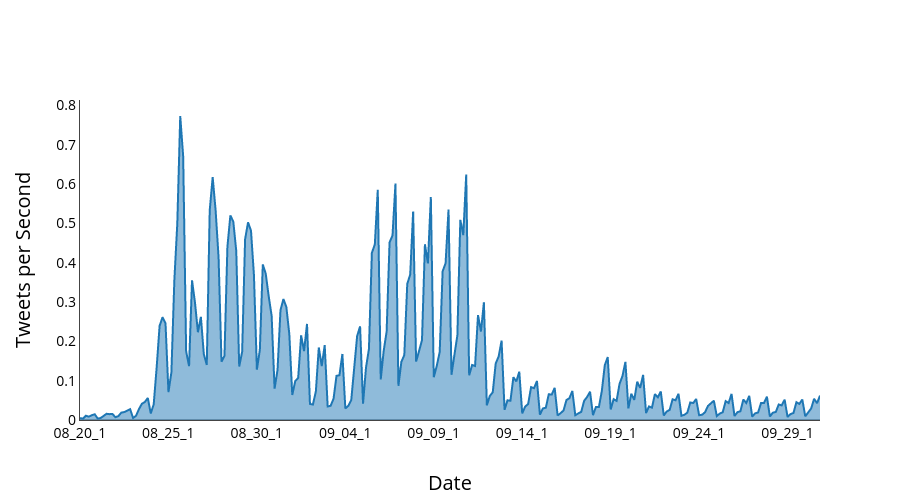
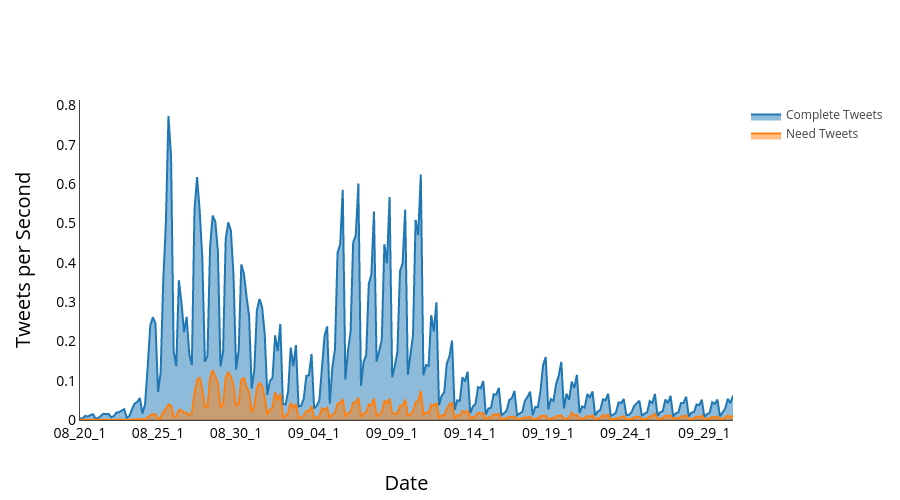
Added another dataset

Changed region(s): [[0.0933, 0.24, 0.9333, 0.9], [0.84, 0.21, 0.9956, 0.3], [0.4356, 0.96, 0.5289, 0.99]]

diff --git a/tweet-rate-graph/tweet-rate.py b/tweet-rate-graph/tweet-rate.py
@@ -11,33 +11,51 @@ import plotly.graph_objs as go
 
 py.sign_in('JStuve', 'mVRUE6CCF94yvNnRxeuu') # Replace the username, and API key with your credentials.
 
-if(len(sys.argv) != 2):
-    print('Please enter file name:\n $python tweet-rate.py data.csv')
+if(len(sys.argv) != 3):
+    print('Please enter file name:\n $python tweet-rate.py data1.csv data2.csv')
 
 else:
     print("Processing Data")
     xData = []
     yData = []
     
+    xxData = []
+    yyData = []
+    
     with open(sys.argv[1], 'r', encoding='utf8', errors='ignore') as dataFile:
         for line in dataFile:
             line = line.split(" ")
             xData.append(line[0])
             yData.append(line[2])
+            
+    with open(sys.argv[2], 'r', encoding='utf8', errors='ignore') as dataFile:
+        for line in dataFile:
+            line = line.split(" ")
+            xxData.append(line[0])
+            yyData.append(line[2])
                     
     
     trace1 = go.Scatter(
         x= xData,
         y= yData,
-        fill='tozeroy'
+        fill='tozeroy',
+        name="Complete Tweets"
+    )
+    
+    trace2 = go.Scatter(
+        x= xxData,
+        y= yyData,
+        fill='tozeroy',
+        name="Need Tweets"
     )
     
     
-    data = [trace1]
+    data = [trace1, trace2]
     
     layout = dict(
             width = 900,
             heigth = 900,
+            showlegend=True,
             xaxis = dict(
                 showgrid = False,
                 zeroline=True,
